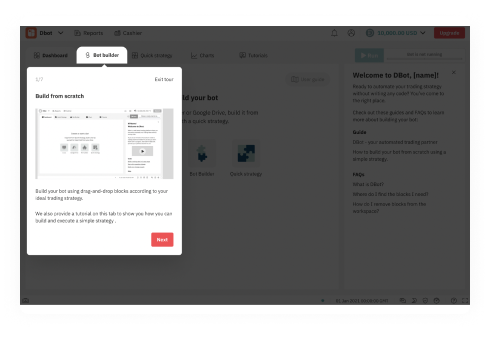
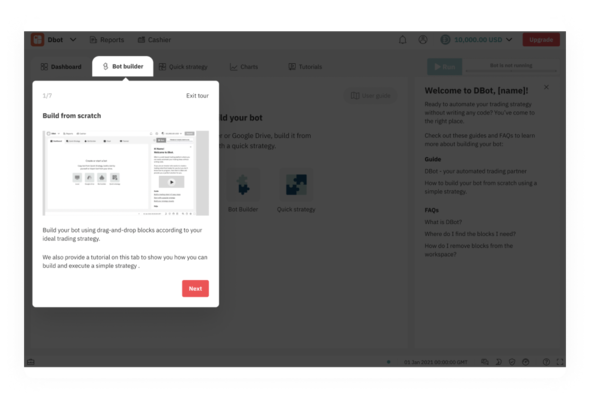
f

diff --git a/templates/dbot-new-features-en.html b/templates/dbot-new-features-en.html
@@ -341,7 +341,7 @@
                         </tr>
                         <tr class="mobile-hide">
                             <td bgcolor="#fff" align="center"  class="darkmodeblack">
-                                <input type="image" class="g-img" src="https://static-natalia.vercel.app/images/deriv/dbot-new-feature1.png"  width= "520" style="display: block;outline:none;  border-radius: 10px;"/>
+                                <input type="image" class="g-img" src="https://static-natalia.vercel.app/images/deriv/dbot-new-feature1-m.png"  width= "520" style="display: block;outline:none;  border-radius: 10px;"/>
                             </td>
                         </tr>   
                         <div >
